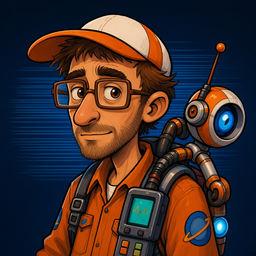
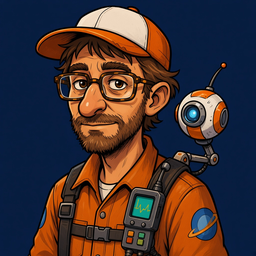
feat(art): portraits Gary GenAI v2 (planche stabilisée)

diff --git a/docs/PORTRAIT_GENAI.md b/docs/PORTRAIT_GENAI.md
@@ -5,7 +5,7 @@ Deux sources selon le personnage :
 
 | Id | Source | Régénération |
 |---|---|---|
-| `gary` | **GenAI** depuis la planche de ref de Leny (design « Janék ») — plus de bake | à la main, voir ci-dessous |
+| `gary` | **GenAI v2** (planche stabilisée validée par Leny, design « Janék ») — plus de bake | à la main, voir ci-dessous |
 | `bob`, `sylvie`, `reine` | bake du Studio 3D (`src/three/Studio.ts`) | `npm run bake:portraits` |
 
 Pas de GenAI au runtime. Un PNG présent dans `public/portraits/` prime ; s'il manque,
@@ -13,26 +13,37 @@ le jeu bake la planche au démarrage — **sauf pour les planches GenAI** (`GENA
 dans `Studio.ts`) : ni `bake:portraits` ni le boot ne les régénèrent ou ne les écrasent
 (si le PNG manque, repli sur le portrait 3D fixe). Le 3D suit l'image, pas l'inverse.
 
-## Gary — planche GenAI
+## Gary — planche GenAI (v2 stabilisée)
+
+**v2 validée par Leny (2026-10-26)** : Gary et son drone sont verrouillés sur les 8 frames
+(même cadrage, même casquette / lunettes / harnais, drone à la même place), fond bleu nuit
+uni `#071D40`. Seuls la bouche et les yeux changent.
 
 Fichiers :
-- `public/portraits/gary-sheet.png` — planche 1024 × 512, 4 × 2 frames de 256 px.
-- `public/portraits/gary-ref.png` — frame idle0 seule (256 × 256), référence pour les
-  prochaines générations.
+- `public/portraits/gary-sheet.png` — planche v2, 1024 × 512, 4 × 2 frames de 256 px.
+  **C'est la source de vérité suivie dans le repo** (copie exacte de la v2 validée,
+  sha256 `feea3813…a9334a`).
+- `public/portraits/gary-ref.png` — frame idle0 de la v2 seule (256 × 256), référence pour
+  les prochaines générations.
 
-Source hors repo : `../qj-janek-genai/` (planche de ref `master.jpg`, frames
-`frame-{0..7}-*.png`, `gary-sheet-preview.png` en 2048 × 1024, `gary-anim.gif` de contrôle).
+Aucun bake ne l'écrase : `bake:portraits` et le bake runtime au boot sautent Gary
+(`GENAI_SHEETS` dans `Studio.ts`), et il n'y a pas de script `predev` / `prebuild`.
+Vérifié : hash de `gary-sheet.png` / `gary-ref.png` identiques avant et après
+`npm run bake:portraits`.
 
-Mapping de la planche actuelle :
+Sources de la v1 (historique, hors repo) : `../qj-janek-genai/` (planche de ref `master.jpg`,
+frames `frame-{0..7}-*.png`, `gary-anim.gif`).
+
+Mapping de la planche v2 :
 
 | | col 0 | col 1 | col 2 | col 3 |
 |---|---|---|---|---|
-| **idle** | 0 · neutre, sourire fermé | 1 · clin d'œil (paupière gauche) | 2 · neutre, regard de côté | 3 · drone penché, œil bleu vers le joueur |
-| **talk** | 4 · bouche mi-ouverte | 5 · grand sourire ouvert | 6 · lèvres entrouvertes | 7 · ouvert, sourire (≈ ¾) |
+| **idle** | 0 · neutre, sourire fermé | 1 · paupières mi-closes | 2 · yeux fermés (clignement) | 3 · neutre, petit sourire |
+| **talk** | 4 · bouche mi-ouverte | 5 · grand sourire ouvert | 6 · lèvres entrouvertes | 7 · bouche en « o » |
 
 Régénérer :
 1. Générer les 8 frames 256 × 256 en image-to-image depuis la planche de ref de Leny
-   (+ `gary-ref.png` comme ancre de cadrage), même fond bleu à scanlines, même cadrage,
+   (+ `gary-ref.png` comme ancre de cadrage), même fond bleu nuit uni `#071D40`, même cadrage,
    seuls bouche / yeux / drone changent (ordre : tableau ci-dessus).
 2. Assembler en 4 × 2 sans marge, par ex. :
    `magick montage frame-{0..7}-*.png -tile 4x2 -geometry +0+0 gary-sheet.png`
@@ -70,8 +81,8 @@ micro-mouvement de tête** changent : même cadrage, même fond, même éclairag
 background gradient and scanlines as reference, 4×2 sprite sheet, no gaps, no borders ».
 
 Ce style lock vaut pour les personnages bakés (B.O.B., SYLVIE, Reine). Gary a quitté le
-bake : son style est celui de la planche de ref de Leny (cartoon encré, fond bleu à
-scanlines) — joindre `public/portraits/gary-ref.png` et la planche de ref.
+bake : son style est celui de la planche v2 de Leny (cartoon encré, fond bleu nuit
+`#071D40`) — joindre `public/portraits/gary-ref.png` et `gary-sheet.png`.
 
 **Toujours attacher `public/portraits/{id}-ref.png`** (frame idle0) comme image de
 référence, et idéalement la planche entière comme guide de layout.
